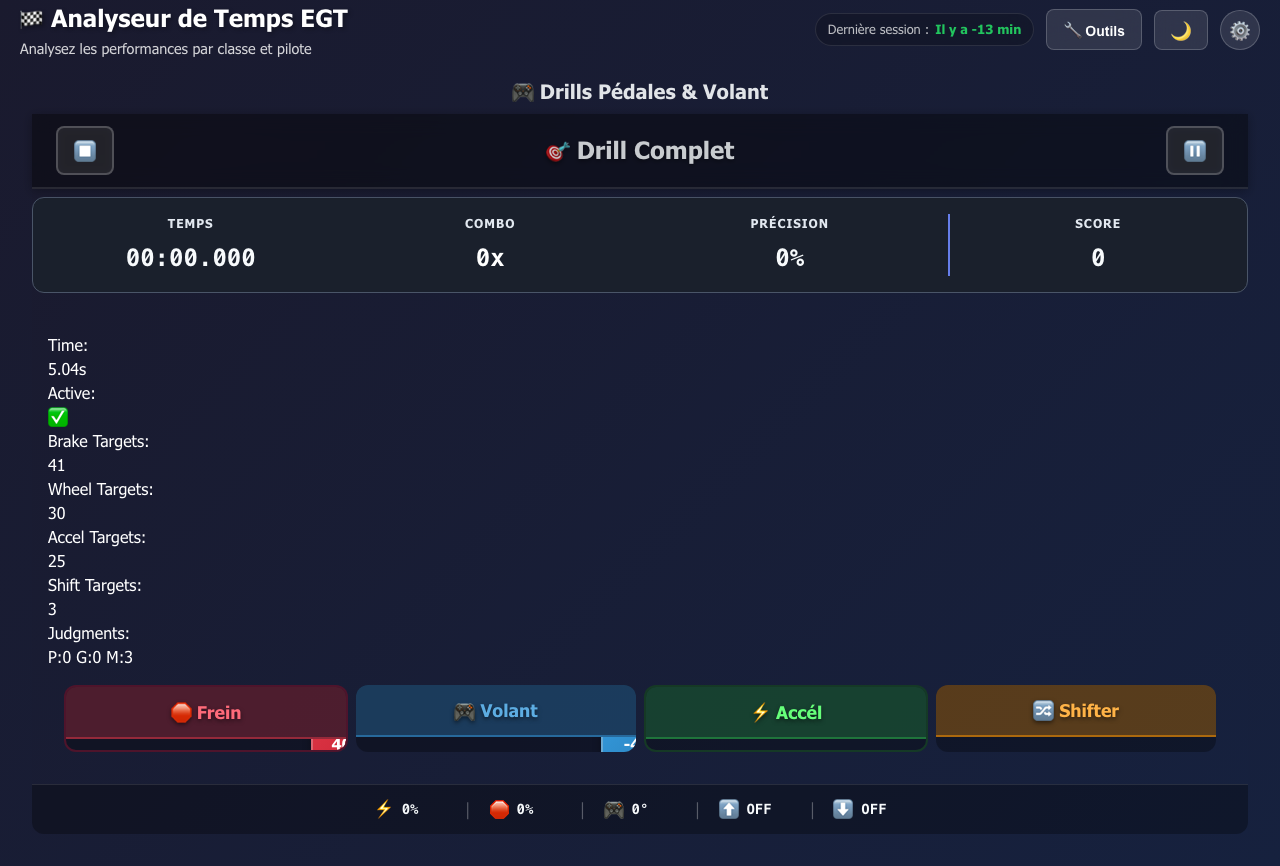
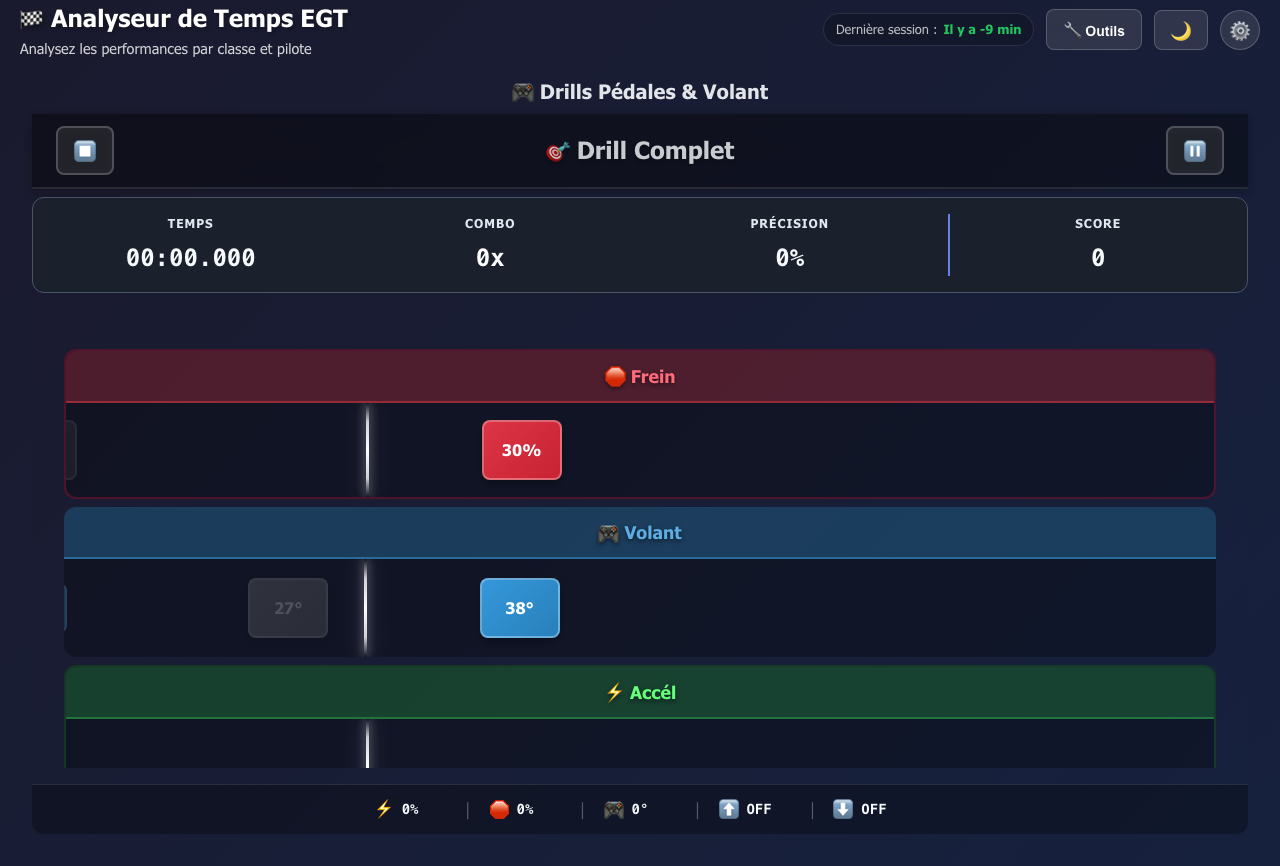
refactor: Améliorer UI du Drill Complet
✨ Layout vertical au lieu d'horizontal
- Lanes empilées verticalement (au dessus l'une de l'autre)
- Lanes plus larges (prennent toute la largeur)
- min-height: 150px par lane
- overflow-y: auto pour scroll si nécessaire

🧹 Debug console au lieu de panel visuel
- Panneau de debug retiré de l'interface
- console.log toutes les 2s pendant le drill
- Interface épurée et professionnelle

✅ Tous les tests Playwright passent (4/4)

Changed region(s): [[0.0312, 0.3741, 0.9688, 0.873], [0.6562, 0.0312, 0.7812, 0.0624], [0.2188, 0.6859, 0.25, 0.7171]]

diff --git a/frontend/src/components/pedal-wheel-drills/DDRFullGameplayArea.jsx b/frontend/src/components/pedal-wheel-drills/DDRFullGameplayArea.jsx
@@ -423,50 +423,21 @@ export function DDRFullGameplayArea({
     });
   }, [currentTime, shiftUp, shiftDown, isActive, audioEnabled, onJudgmentUpdate, markTargetHit, markTargetMiss]);
 
-  // Rendu des 4 lanes
+  // Debug dans la console (toutes les 2 secondes)
+  useEffect(() => {
+    if (!isActive) return;
+    
+    const debugInterval = setInterval(() => {
+      console.log(`[Drill Complet Debug] Time: ${currentTime.toFixed(2)}s | Brake: ${brakeTargets.length} | Wheel: ${wheelTargets.length} | Accel: ${accelTargets.length} | Shift: ${shiftTargets.length} | Judgments: P:${judgmentCounts.PERFECT} G:${judgmentCounts.GREAT} M:${judgmentCounts.MISS}`);
+    }, 2000);
+    
+    return () => clearInterval(debugInterval);
+  }, [isActive, currentTime, brakeTargets.length, wheelTargets.length, accelTargets.length, shiftTargets.length, judgmentCounts]);
+
+  // Rendu des 4 lanes empilées verticalement
   return (
     <div className="ddr-full-gameplay">
-      {/* Debug panel */}
-      <div className="ddr-debug-panel">
-        <div className="debug-section">
-          <div className="debug-label">Time:</div>
-          <div className="debug-value">{currentTime.toFixed(2)}s</div>
-        </div>
-        
-        <div className="debug-section">
-          <div className="debug-label">Active:</div>
-          <div className="debug-value">{isActive ? '✅' : '❌'}</div>
-        </div>
-        
-        <div className="debug-section">
-          <div className="debug-label">Brake Targets:</div>
-          <div className="debug-value">{brakeTargets.length}</div>
-        </div>
-        
-        <div className="debug-section">
-          <div className="debug-label">Wheel Targets:</div>
-          <div className="debug-value">{wheelTargets.length}</div>
-        </div>
-        
-        <div className="debug-section">
-          <div className="debug-label">Accel Targets:</div>
-          <div className="debug-value">{accelTargets.length}</div>
-        </div>
-        
-        <div className="debug-section">
-          <div className="debug-label">Shift Targets:</div>
-          <div className="debug-value">{shiftTargets.length}</div>
-        </div>
-        
-        <div className="debug-section">
-          <div className="debug-label">Judgments:</div>
-          <div className="debug-value">
-            P:{judgmentCounts.PERFECT} G:{judgmentCounts.GREAT} M:{judgmentCounts.MISS}
-          </div>
-        </div>
-      </div>
-      
-      {/* Les 4 lanes côte à côte */}
+      {/* Les 4 lanes empilées verticalement */}
       <div className="ddr-full-lanes">
         {/* Lane 1: Frein */}
         <div className="ddr-lane ddr-lane-brake">

diff --git a/frontend/src/components/pedal-wheel-drills/DDRFullGameplayArea.css b/frontend/src/components/pedal-wheel-drills/DDRFullGameplayArea.css
@@ -11,13 +11,16 @@
 .ddr-full-lanes {
   flex: 1;
   display: flex;
+  flex-direction: column;
   gap: 0.5rem;
   padding: 1rem;
   min-height: 0;
+  overflow-y: auto;
 }
 
 .ddr-lane {
   flex: 1;
+  min-height: 150px;
   display: flex;
   flex-direction: column;
   background: rgba(0, 0, 0, 0.3);
